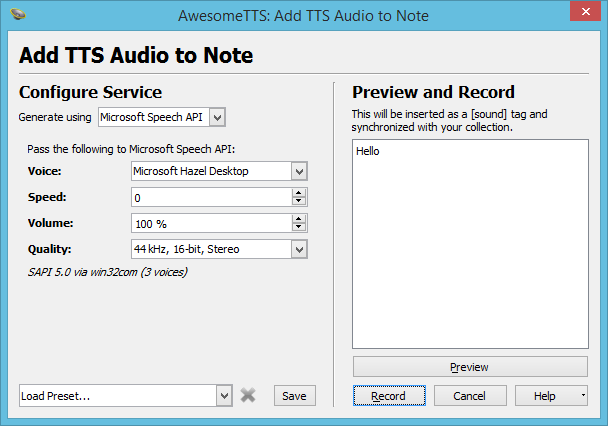
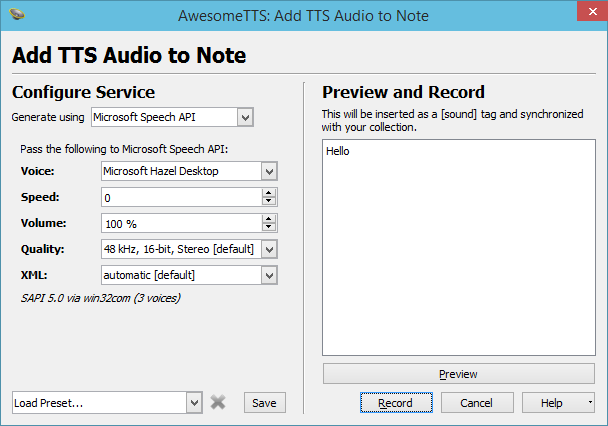
Documentation for the XML handling option
Updates the screenshot, adds documentation, and shortens the field name
to just "XML".

Changed region(s): [[0.0, 0.0, 1.0, 1.0]]

diff --git a/addon/awesometts/service/sapi5js.py b/addon/awesometts/service/sapi5js.py
@@ -210,7 +210,7 @@ class SAPI5JS(Service):
 
             dict(
                 key='xml',
-                label="XML Handling",
+                label="XML",
                 values=[
                     (0, "automatic"),
                     (8, "always parse"),

diff --git a/addon/awesometts/service/sapi5.py b/addon/awesometts/service/sapi5.py
@@ -192,7 +192,7 @@ class SAPI5(Service):
 
             dict(
                 key='xml',
-                label="XML Handling",
+                label="XML",
                 values=[
                     (0, "automatic"),
                     (8, "always parse"),
